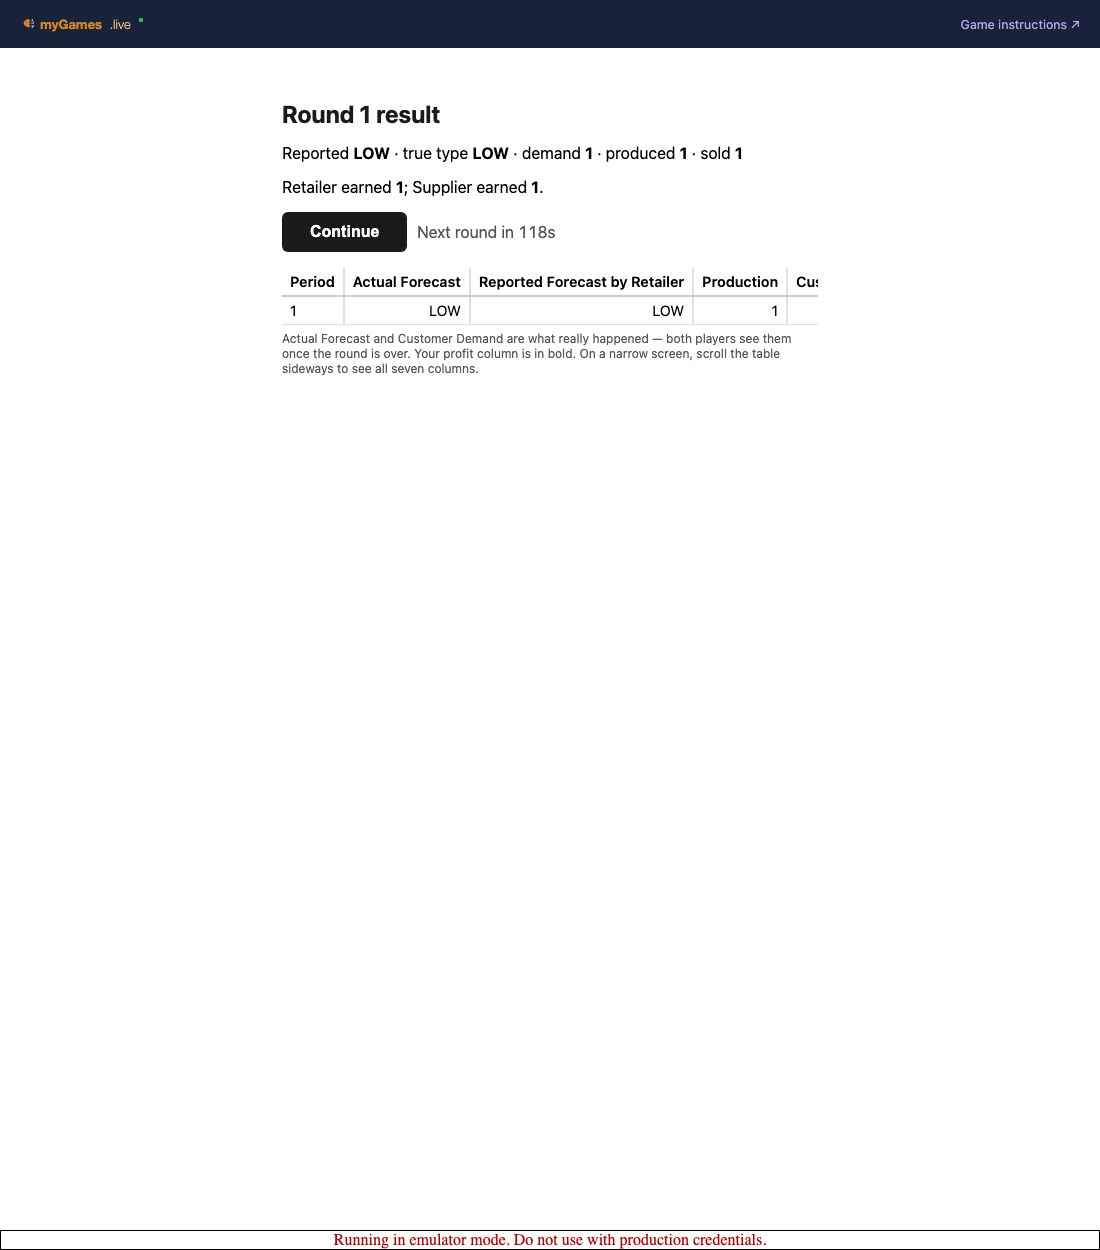
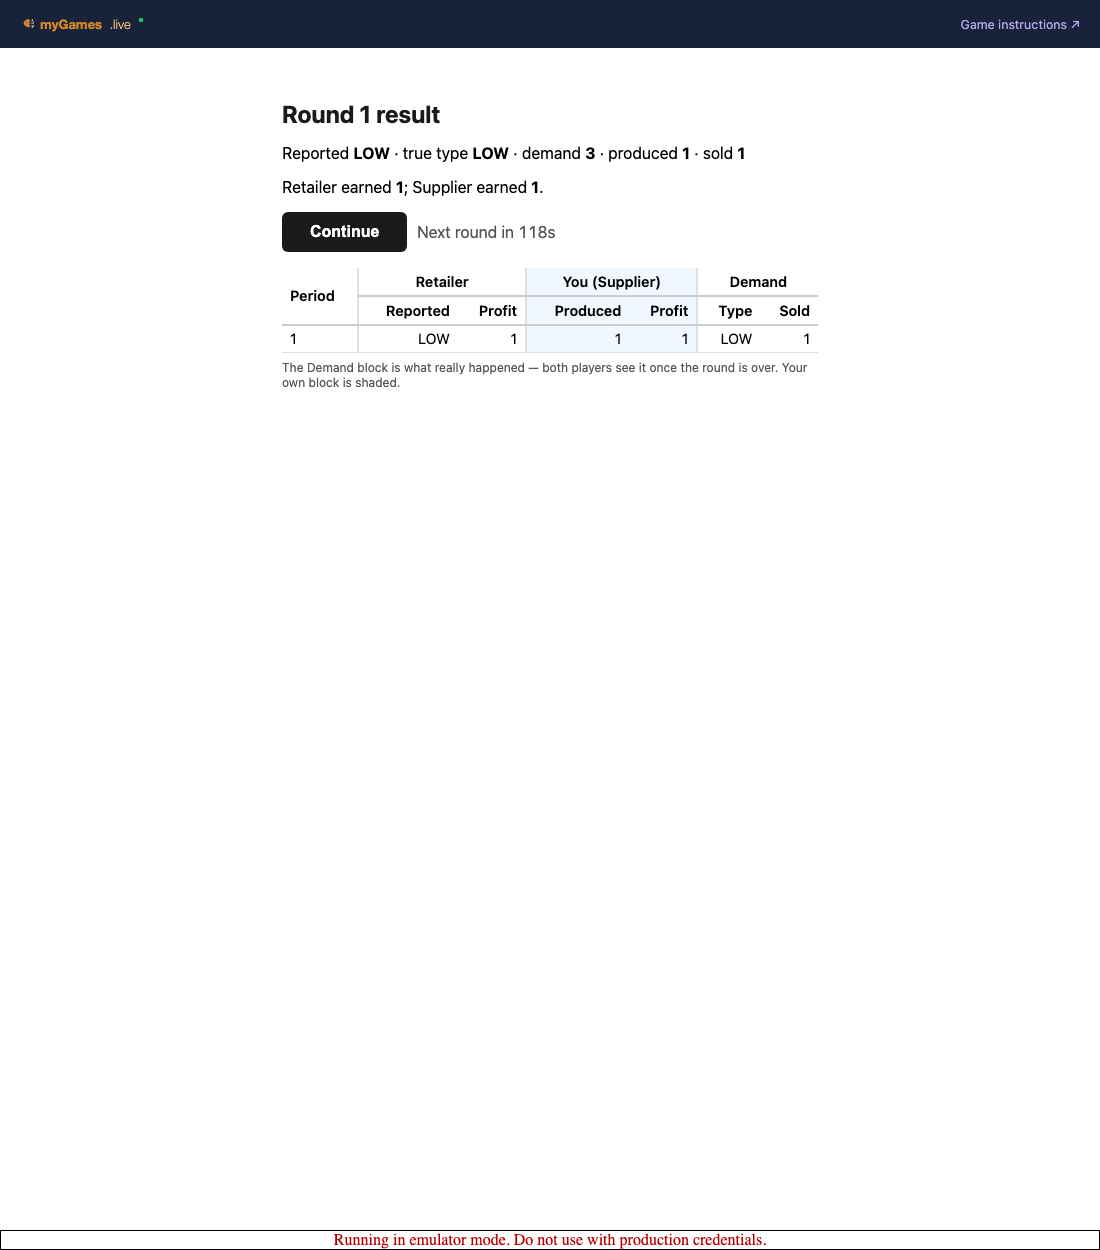
infoshare history: grouped mode — 900px of table becomes 536px
⚠ THE FLAT SEVEN WERE WHAT SET THE WIDTH. Every column spelled out its owner
("Reported Forecast by Retailer"), repeating in each header what a group header
says once. Crisis fits TEN columns in ~400px because its top row groups by WHO
and its bottom row carries short labels — the same widget, in a mode infoshare
was not using.

I built that group/sub model in slice 3, noted infoshare's flat seven "falls out
of the model", and drew the wrong conclusion: the model was right and the table
was the wrong shape.

  Period | Retailer: Reported · Profit | Supplier: Produced · Profit
         | Demand: Type · Sold

Viewer's own block shaded and headed "You (Retailer)" / "You (Supplier)" by the
widget. NO style values here — padding, font sizes, row height, the two-row
header and the shading all live in the shared widget, so this cannot drift from
crisis by inventing numbers, which is exactly what the breakout div did.

MEASURED BY RESIZING ONE PAGE, not loading at each width — a load-only test
passed on the broken table, because a fresh load re-lays-out while the real
complaint is a window being dragged:

  @1300: 2 header rows, 7 leaf cols, table 536px in 536px — no scrollbar
  @570 : table 466px in 466px — fits with no scrollbar at all
  @360 : table 435px in 256px — the TABLE scrolls in its own box
  the PAGE never scrolls sideways at any of the three

⚠ THE 570 ASSERTION HAD TO CHANGE, NOT BE KEPT GREEN. It required the table to
[…]

Changed region(s): [[0.2473, 0.2184, 0.7418, 0.312], [0.5564, 0.0936, 0.68, 0.1248]]

diff --git a/frontend/src/game/HistoryTable.tsx b/frontend/src/game/HistoryTable.tsx
@@ -1,4 +1,4 @@
-import { HistoryTable as SharedHistoryTable, col, num, colors } from '@mygames/game-ui'
+import { HistoryTable as SharedHistoryTable, col, group, sub, num, colors } from '@mygames/game-ui'
 import type { RoundRecord, Role } from '../api'
 
 // ═══════════════════════════════════════════════════════════════════════════════
@@ -47,24 +47,48 @@ const money = (n: number) => num(n)
  *   Customer Demand    round field  actual_demand
  *   both Profits       result value from the resolver
  */
-const mineIf = (mine: boolean, text: string) =>
-  mine ? <strong>{text}</strong> : <span>{text}</span>
-
+/**
+ * GROUPED MODE — TWO HEADER ROWS, exactly as crisis renders it.
+ *
+ * ⚠ THE FLAT SEVEN WERE WHAT SET THE WIDTH. Every column spelled out its owner
+ * ("Reported Forecast by Retailer"), repeating in each header what a group header says
+ * once. Nine hundred pixels of table for seven values, overflowing a 1300px window.
+ *
+ * Crisis fits TEN columns in ~400px because the top row groups by WHO and the bottom row
+ * carries short labels. Same widget, a mode infoshare simply was not using — I built the
+ * group/sub model in slice 3, noted infoshare's flat seven "falls out of the model", and
+ * drew the wrong conclusion: the model was right and the table was the wrong shape.
+ *
+ * ⚠ NO STYLE VALUES HERE. Padding, font sizes, row height, the two-row header and the
+ * `mine` shading all live in the shared widget, so this cannot drift from crisis by
+ * inventing its own numbers — which is exactly what the breakout div did.
+ * `mine` also renders the block header as "You (Retailer)" / "You (Supplier)".
+ */
 function sections(viewerRole?: Role) {
   return [
     col<RoundRecord>('round', 'Period', (h) => h.round, { align: 'left' }),
-    col<RoundRecord>('demandType', 'Actual Forecast', (h) => h.demandType),
-    col<RoundRecord>('message', 'Reported Forecast by Retailer', (h) => h.message),
-    col<RoundRecord>('production', 'Production', (h) => h.production),
-    col<RoundRecord>('actualDemand', 'Customer Demand', (h) => h.actualDemand),
-    // Both profits, to both roles. The viewer's OWN column is bolded so they can find
-    // themselves at a glance — emphasis only; the numbers shown are the same either way.
-    col<RoundRecord>('profitR', "Retailer's Profit",
-      (h) => mineIf(viewerRole === 'retailer', money(h.profits.retailer)),
-      { testId: (h) => `retailer-profit-${h.round}` }),
-    col<RoundRecord>('profitS', "Supplier's Profit",
-      (h) => mineIf(viewerRole === 'supplier', money(h.profits.supplier)),
-      { testId: (h) => `supplier-profit-${h.round}` }),
+
+    group<RoundRecord>('retailer', 'Retailer', [
+      sub('message', 'Reported', (h) => h.message),
+      sub('profitR', 'Profit', (h) => money(h.profits.retailer),
+        { testId: (h) => `retailer-profit-${h.round}` }),
+    ], { mine: viewerRole === 'retailer' }),
+
+    group<RoundRecord>('supplier', 'Supplier', [
+      sub('production', 'Produced', (h) => h.production),
+      sub('profitS', 'Profit', (h) => money(h.profits.supplier),
+        { testId: (h) => `supplier-profit-${h.round}` }),
+    ], { mine: viewerRole === 'supplier' }),
+
+    /*
+      WHAT REALLY HAPPENED. Belongs to neither seat, so it takes no `mine` shading.
+      ⚠ Both cells are public to BOTH seats once the round resolves — that is what makes
+      a report that did not match discoverable one round later.
+    */
+    group<RoundRecord>('demand', 'Demand', [
+      sub('demandType', 'Type', (h) => h.demandType),
+      sub('sold', 'Sold', (h) => h.sales),
+    ]),
   ]
 }
 
@@ -102,10 +126,8 @@ export default function HistoryTable({ history, viewerRole }: { history: RoundRe
       />
       {history.length > 0 && (
         <p style={{ color: colors.textSecondary, fontSize: '0.75rem', margin: '0.4rem 0 0' }}>
-          Actual Forecast and Customer Demand are what really happened — both players
-          see them once the round is over.
-          {viewerRole ? ' Your profit column is in bold.' : ''}
-          {' '}On a narrow screen, scroll the table sideways to see all seven columns.
+          The Demand block is what really happened — both players see it once the round
+          is over.{viewerRole ? ' Your own block is shaded.' : ''}
         </p>
       )}
     </div>
